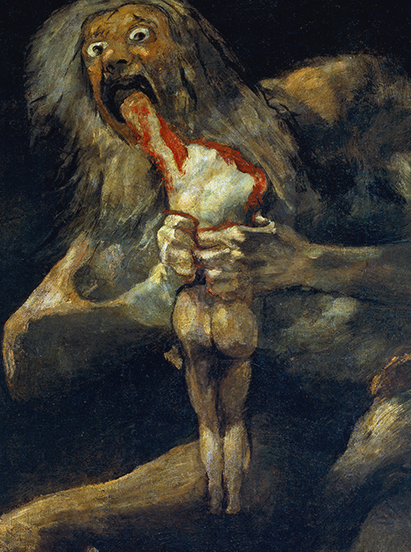
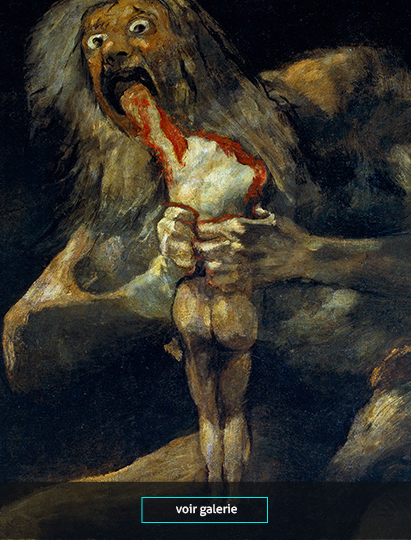
Improved slider and UI elements

diff --git a/www/js/ui.js b/www/js/ui.js
@@ -8,6 +8,7 @@ var timelineSlidingEl;
 var timelineStartLeft;
 var displayingDocumentation = false;
 var aboutToSlideToDocumentation = false;
+var aboutToZoom = false;
 var xLast = 0, posX = 0, xLastGrid = 0, posXGrid = 0;
 var timelineOriginalOffset;
 var IS_LOGGED_IN = false;
@@ -46,7 +47,7 @@ var timelinePositionWithTimecode = function (seconds) {
 };
 
 var timelineOffsetWithTimecode = function (seconds) {
-	return (- timelinePositionWithTimecode(seconds)) + 100;
+	return (- timelinePositionWithTimecode(seconds)) + 60;
 };
 
 var timelineWidthFromDuration = function (duration) {
@@ -118,21 +119,34 @@ var addNoticeOnTimeline = function (timecode, endTimecode, id, category_nicename
 			.text(title)
 			.appendTo($('.timeline-body'));
 
+	$('<div class="zoom zoom-'+id+'"></div>')
+		.css('background-image', 'url(images/samples/notices/'+String(id)+'_big.jpg)')
+		.bind('touchstart', function () {
+			$(this).fadeOut(300);
+		})
+		.appendTo($('body'));
 
-	if (id != 0) {
+
 		$('.grid-timeline').animate({
-			width: '+=180px'
+			width: '+=180px',
+			left: '-=175px'
 		}, 300);
-		$('.view-grid-container .timeline-body-container').animate({
-			scrollLeft: '+=200px'
-		});
+		// $('.timeline-notice-block').animate({
+		// 	left: '-=180px'
+		// }, 300);
+		// $('.view-grid-container .timeline-body-container').animate({
+		// 	scrollLeft: '+=200px'
+		// });
 
 		if ($('.grid-timeline').width() > 700) {
-			$('.scroller').show(0).animate({
-				width: '-=40px'
-			}, 300);
+			var w = (380 / ($('.timeline-notice-block').length/1.8));
+
+			if ($('.scroller').width() > 100) {
+				$('.scroller').show(0).animate({
+					width: '-='+w+'px'
+				}, 300);
+			}
 		}
-	}
 
 	updateTimelineNoticeListeners();
 }
@@ -222,6 +236,8 @@ $(function () {
 		$('.container').hide(0);
 		$(hash).show(0);
 
+		$('.container-social .step').hide(0);
+		$('.container-social .step-1').show(0);
 
 	});
 
@@ -283,7 +299,7 @@ $(function () {
 			console.log(x, pX, y, pY);
 
 			// touch slide bottom
-			if (pY - y < -20  && !displayingDocumentation) {
+			if (pY - y < -20  && !displayingDocumentation && !aboutToZoom) {
 				aboutToSlideToDocumentation = true;
 				displayingDocumentation = true;
 				$('.timeline-last-notice').animate({ zoom: 1.1 }, 200);
@@ -299,12 +315,16 @@ $(function () {
 			}
 
 			// zoom
-			// if (pY - y > 50  && !aboutToSlideToDocumentation) {
-			// 	$('.timeline-last-notice *').animate({ opacity: 0.3 }, 200);
-			// 	$('.container-home').animate({ backgroundSize: '110%' }, 200, function () {
-			// 		$('.zoom').show(0);
-			// 	});
-			// }
+			if (pY - y > 50  && !aboutToZoom && !aboutToSlideToDocumentation ) {
+				aboutToZoom = true;
+				$('.timeline-last-notice *').animate({ opacity: 0.3 }, 200);
+				$('.container-home').css({ backgroundSize: '100%' }).animate({ backgroundSize: '110%' }, 200);
+			}
+			if (pY - y < 50  && aboutToZoom) {
+				aboutToZoom = false;
+				$('.timeline-last-notice *').animate({ opacity: 1 }, 200);
+				$('.container-home').animate({ backgroundSize: '100%' }, 200);
+			}
 		})
 		.bind('touchend', function (e) {
 			
@@ -315,9 +335,15 @@ $(function () {
 				$('.timeline-last-notice').animate({ zoom: 1 }, 200);
 				$('.container-home').animate({ backgroundSize: '100%' }, 200);
 			}
+
+			if (aboutToZoom) {
+				$('.zoom-'+CURRENT_VIEWED_NOTICE).fadeIn(400);
+			}
 			
 		});
 
+
+	// CONTENT SCROLL
 	$('.additional-content')
 		.bind('touchstart', function (e) {
 			e.preventDefault();
@@ -339,8 +365,8 @@ $(function () {
 				if ($('.container-home').offset().top >= 0 && !showingDocumentationDetail) return;
 				if (showingDocumentationDetail && $('.doc-category.current').offset().top >= 0 ) return;
 
-				$('.container-home, .doc-category').animate({ top: '+=15px' }, 0);
-				$('.additional-content').animate({ bottom: '-=15px' }, 0);
+				$('.container-home, .doc-category').animate({ top: '+=25px' }, 0);
+				$('.additional-content').animate({ bottom: '-=25px' }, 0);
 			}
 
 			// scroll
@@ -352,8 +378,22 @@ $(function () {
 				console.log(bottom);
 				if (bottom >= 50) return;
 
-				$('.container-home, .doc-category').animate({ top: '-=15px' }, 0);
-				$('.additional-content').animate({ bottom: '+=15px' }, 0);
+				$('.container-home, .doc-category').animate({ top: '-=25px' }, 0);
+				$('.additional-content').animate({ bottom: '+=25px' }, 0);
+			}
+		})
+		.bind('touchend', function (e) {
+			if (pY - y < -20) {
+				if ($('.container-home').offset().top >= 0 && !showingDocumentationDetail) return;
+				if (showingDocumentationDetail && $('.doc-category.current').offset().top >= 0 ) return;
+				$('.container-home, .doc-category').animate({ top: '+=100px' }, 400);
+				$('.additional-content').animate({ bottom: '-=100px' }, 400);
+			}
+			if (pY - y > 20) {
+				var bottom = $(window).height() - $('.additional-content').offset().top - $('.additional-content').height();
+				if (bottom >= 50) return;
+				$('.container-home, .doc-category').animate({ top: '-=100px' }, 400);
+				$('.additional-content').animate({ bottom: '+=100px' }, 400);
 			}
 		});
 

diff --git a/www/css/main.css b/www/css/main.css
@@ -277,29 +277,29 @@ body, html {
 }
 
 .additional-content .slider {
-	width: 100%; height: 35px;
+	width: 100%; height: 36px;
 	background-color: #101316;
 	background-image: url(../images/doc-additional-slider-bg.png);
 	background-repeat: no-repeat;
 	background-position: center center; position: relative;
 	text-align: center;
-	padding-top: 15px;
+	padding-top: 0px;
 }
 
-.additional-content .slider .next { position: absolute; right: 30px; bottom: 10px; width: 30px; height: 30px; background: url(../images/doc-slider-right.png); background-size: 30px 30px; }
-.additional-content .slider .prev { position: absolute; left: 30px; bottom: 10px; width: 30px; height: 30px; background: url(../images/doc-slider-left.png); background-size: 30px 30px; }
+.additional-content .slider .next { position: absolute; right: 30px; bottom: 0px; width: 30px; height: 30px; background: url(../images/doc-slider-right.png); background-size: 30px 30px; }
+.additional-content .slider .prev { position: absolute; left: 30px; bottom: 0px; width: 30px; height: 30px; background: url(../images/doc-slider-left.png); background-size: 30px 30px; }
 .additional-content .slider div.disabled { opacity: 0.3; }
 .additional-content .slider .item { 
 	display: inline-block;
-	background: #292b2d;
-	border-radius: 20px;
-	width: 12px; height: 12px;
+	background: url(../images/slider-item.png) no-repeat center bottom;
+	width: 25px; height: 25px;
 	margin-right: 40px;
 }
 
 .additional-content .slider .item.active {
 	width: 18px; height: 18px;
-	background: #fff; position: relative; top: 2px;
+	position: relative; top: 2px;
+	background: url(../images/slider-item-active.png) no-repeat center bottom;
 }
 
 /******* DOC *********/
@@ -461,3 +461,9 @@ body, html {
 
 .socials .twitter { background: url(../images/share-twitter.png) no-repeat; }
 .socials .facebook { background: url(../images/share-facebook.png) no-repeat; }
+
+.zoom {
+	position: absolute; top: 0; left: 0; z-index: 500;
+	width: 100%; height: 100%; background-size: cover; background-position: center;
+	display: none;
+}

diff --git a/www/home.html b/www/home.html
@@ -60,7 +60,7 @@
       var setTimecode = function (seconds) {
       
         if (seconds - oldTimecode > 20 || oldTimecode - seconds > 20) { // jump ?
-          $('.timeline-body').css('left', timelineOffsetWithTimecode(seconds));
+          $('.timeline-body').css('left', timelineOffsetWithTimecode(seconds)+'%');
         }
       
         oldTimecode = currentTimecode;
@@ -191,9 +191,6 @@
           <button class='pause'></button>
           <!-- %button#forward -->
           <!-- %button#next-chapter -->
-          <div class='timeline-slider'>
-            <div class='scroller' id='timeline-scroller'></div>
-          </div>
         </div>
         <div class='timeline-last-notice'>
           <div class='timeline-cat-icon'>
@@ -219,6 +216,9 @@
               <!-- .title L'enfer -->
               <!-- .timeline-notice-time 00:56:00 -->
             </div>
+          </div>
+          <div class='timeline-slider'>
+            <div class='scroller' id='timeline-scroller'></div>
           </div>
           <div class='timeline-current-time'></div>
         </div>
@@ -268,6 +268,7 @@
           <div class='publication-select'>
             <div class='item item-scope checked'>Scope</div>
             <div class='item item-fb'>Facebook</div>
+            <div class='item item-twitter'>Twitter</div>
           </div>
         </div>
         <div class='social-form'></div>

diff --git a/www/css/timeline.css b/www/css/timeline.css
@@ -133,13 +133,13 @@
 	height: 10px; width: 145px; z-index: 150;
 	font-size: 11px; color: white; font-family: 'Aller', sans-serif;
 	text-align: center;
-	position: absolute; bottom: 10px;
+	position: absolute; bottom: 60px;
 }
 
 .grid-timeline {
 	background: url(../images/timeline-grid.png) repeat-x left 90px;
 	height: 150px;
-	padding: 20px 0 0 800px;
+	padding: 20px 0 0 1025px;
 	position: relative;
 	-webkit-box-shadow: inset 0 0 10px #171e26;
 	width: 0;
@@ -154,6 +154,7 @@
 	background-repeat: no-repeat;
 	background-position: center top;
 	padding-bottom: 40px;
+	position: relative;
 	/*background-image: url(../images/samples/notices/1_big.jpg)*/
 }
 
@@ -164,16 +165,17 @@
 
 .view-grid-container .timeline-slider {
 	width: 100%;
-	height: 14px; background: #18191c;
-	border-top: 1px solid #1b1b1d;
+	height: 17px; background: #18191c;
+	border-top: 1px solid #3c3c3c;
 	border-bottom: 1px solid #1b1b1d;
+	position: absolute; bottom: 0; z-index: 201;
 }
 
 .view-grid-container .timeline-slider .scroller {
-	height: 10px; width: 900px;
+	height: 14px; width: 900px;
 	margin-top: 2px;
 	background: #303135;
-	border-radius: 4px;
+	border-radius: 7px;
 	position: absolute; right: 0; display: none;
 }
 

diff --git a/www/js/timeline-slider.js b/www/js/timeline-slider.js
@@ -1,15 +1,22 @@
 var scroll_posXGrid = 0, scroll_xLastGrid = 0;
 
+var scrollTouchBounds = function (offset, direction) {
+	return (offset <= 0 && direction == 'left') 
+			|| (offset + $('.scroller').width() >= window.innerWidth && direction == 'right');
+};
+
 $(function () {
 
 	Hammer(document.getElementById('timeline-scroller')).on('drag', function (e) {
 		switch(e.type) {
 			case 'drag' :
+				
+
+				var offset = $('.scroller').offset().left;
+
+				if (scrollTouchBounds(offset, e.gesture.direction)) return;
+
 				scroll_posXGrid = e.gesture.deltaX + scroll_xLastGrid;
-
-				if (-scroll_posXGrid < 0 ) return;
-
-				console.log(scroll_posXGrid)
 
 				$('.scroller').css('transform', 'translateX(' + scroll_posXGrid  +'px) translateZ(0px)' );
 				$('.grid-timeline').css('transform', 'translateX(' + (-scroll_posXGrid)  +'px)' );

diff --git a/www/js/doc.js b/www/js/doc.js
@@ -144,7 +144,7 @@ var getCategoriesOfParent = function (parent, parent_name) {
 							bottom: '+=670px'
 						}, 500);
 						$('.doc-category-'+id).addClass('current').show(0).animate({
-							top: '+=400px'
+							top: '+=410px'
 						}, 500);
 
 						$('.slide-counter .total').text(DOC_ARRAY[category.id].length);

diff --git a/www/js/social.js b/www/js/social.js
@@ -68,7 +68,7 @@ $(function () {
 	});
 
 	$('.publication-select .item').bind('touchstart', function (e) {
-		$(this).addClass('checked');
+		$(this).toggleClass('checked');
 	});
 
 	$('.publication-select .item-fb').bind('touchstart', function (e) {

diff --git a/www/css/social.css b/www/css/social.css
@@ -146,3 +146,7 @@
 .publication-select .item-fb {
 	background-image: url(../images/social-select-fb.png);
 }
+
+.publication-select .item-twitter {
+	background-image: url(../images/social-select-twitter.png);
+}
